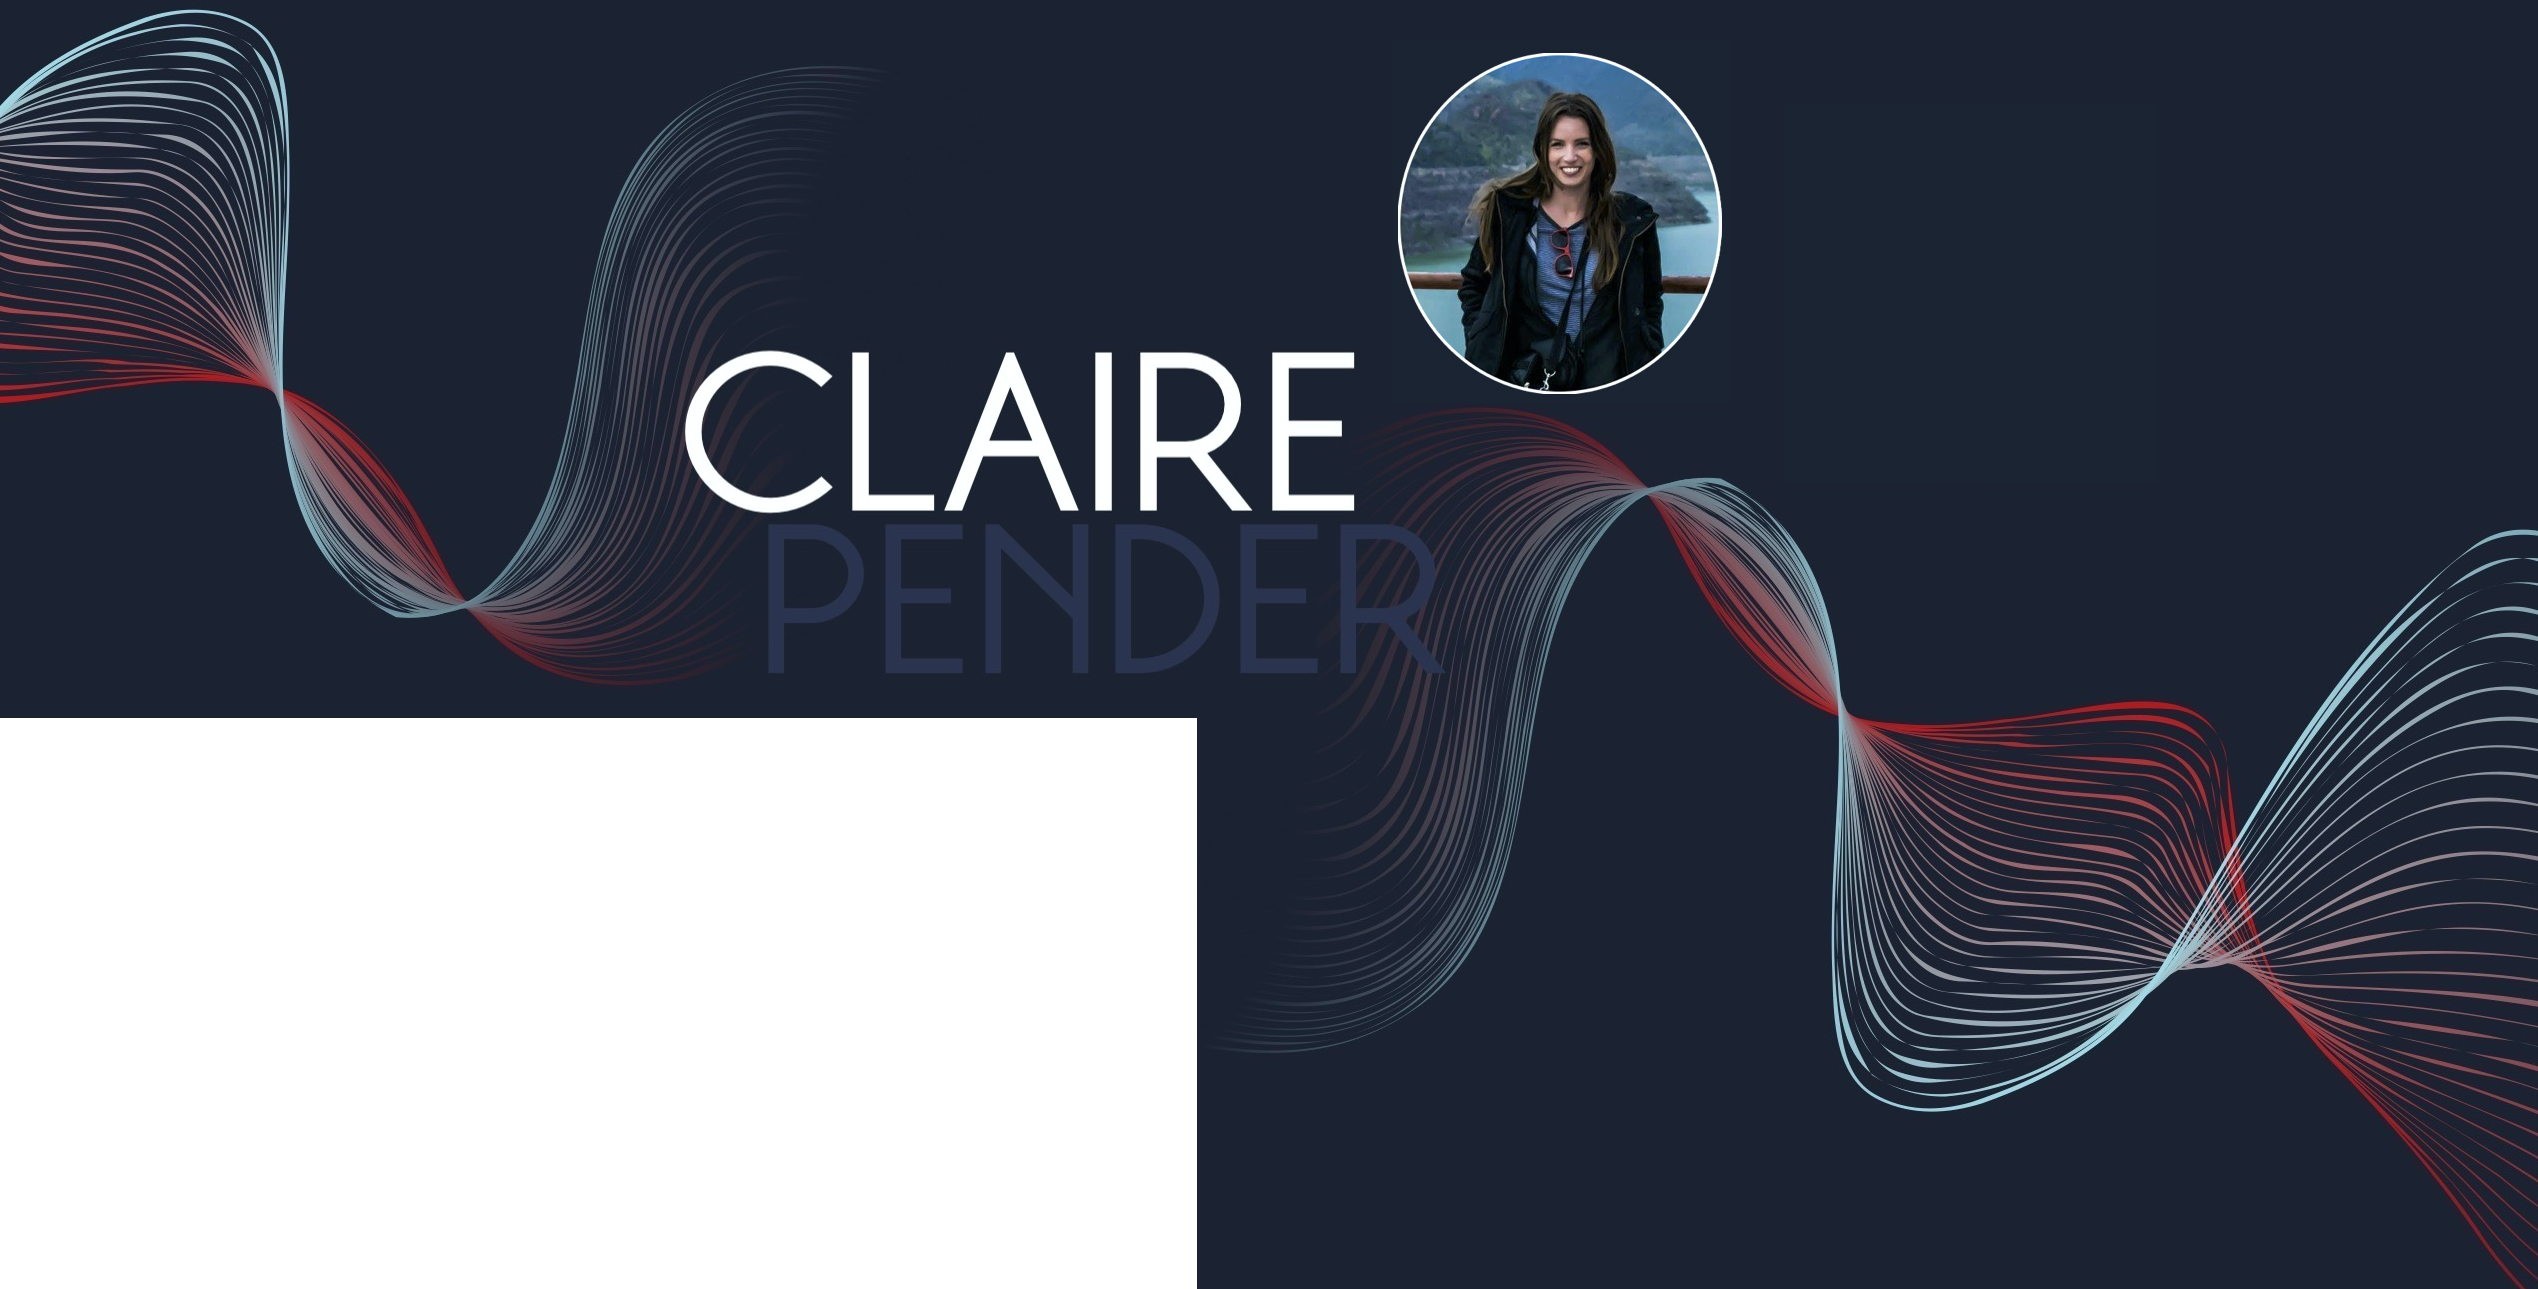
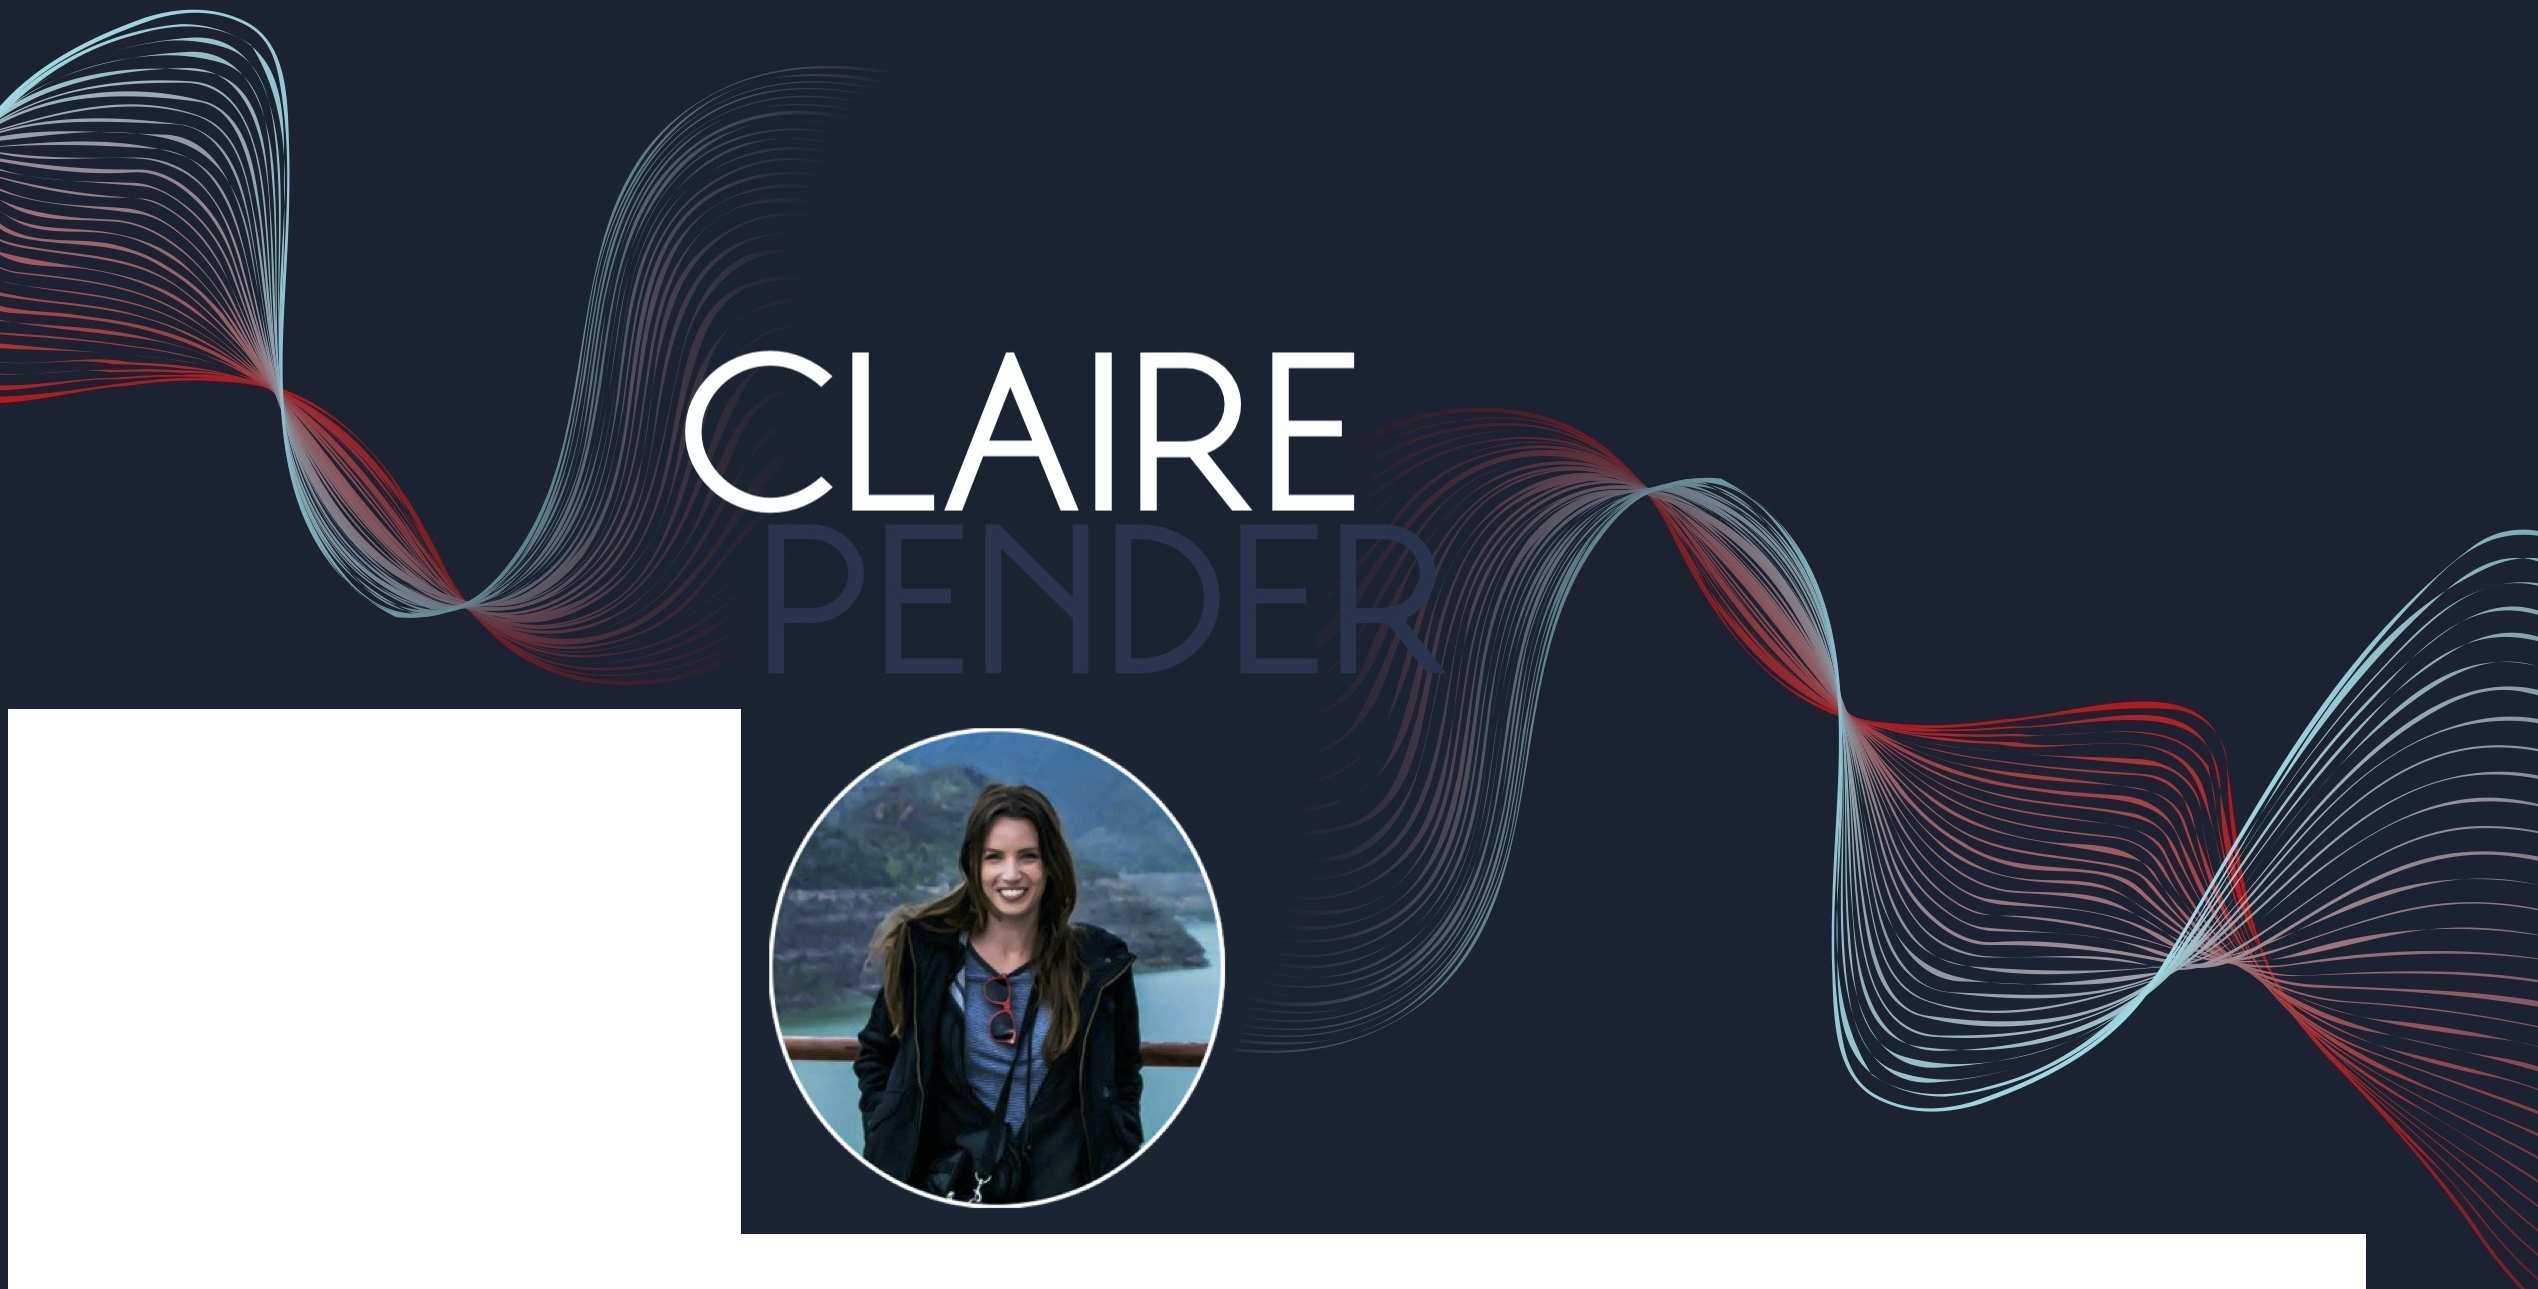
more styling mobile version

Changed region(s): [[0.0, 0.5275, 0.9338, 1.0], [0.5292, 0.031, 0.6848, 0.3103]]

diff --git a/src/components/Home.js b/src/components/Home.js
@@ -8,7 +8,7 @@ const Home = () => {
       <div className="container">
          <div className="intro">
             <div className="name-mobile"><img src={require('../images/mobilebanner.png')} alt="..." 
-                            style={{width: 550, height: 275}} /></div>
+                            style={{width: 600, height: 300}} /></div>
            <div className="intro-sub-text">
            <h4>mom, artist, fullstack engineer.</h4>
             <h4 className="contact-info text-center">clairepender5@gmail.com</h4>
